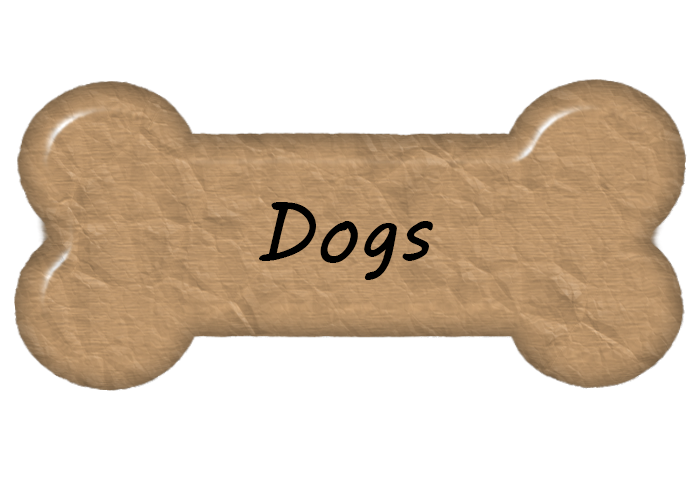
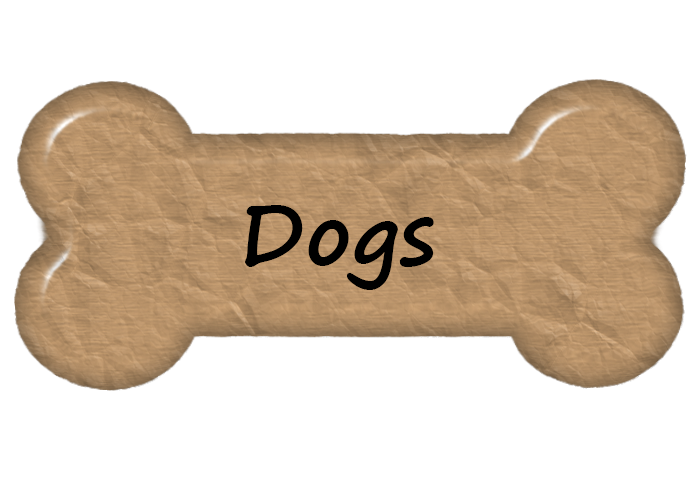
changed fonts

Changed region(s): [[0.33, 0.39, 0.63, 0.6]]

diff --git a/src/App.scss b/src/App.scss
@@ -300,9 +300,12 @@ $scale-base-1: (1 + $scale / 100%);
   color: black !important;
   height: 10vh;
   font-size: 5vh;
+  
+  line-height: 1.8;
   background-image: url('./titlebackground.png');
   background-size: 80% 160%;
   background-position: center;
+  font-family: 'Amatic SC', cursive;
 }
 .hometitle:hover {
   -webkit-transform: translate(0,-10px);
@@ -595,8 +598,8 @@ $scale-base-1: (1 + $scale / 100%);
   background-image: url('./paperheader.jpg');
   background-size: 100%; 
   background-repeat: no-repeat;
-  height: 22vh;
-  margin-bottom: -10vh;
+  height: 25vh;
+  margin-bottom: -7vh;
   position: absolute;
   width: 105vw;
   z-index: 50;

diff --git a/public/index.html b/public/index.html
@@ -9,6 +9,7 @@
       name="description"
       content="Wonderful Doodles from wonderful People "
     />
+    <link href="https://fonts.googleapis.com/css2?family=Amatic+SC:wght@700&display=swap" rel="stylesheet">
     <script src="https://unpkg.com/react/umd/react.production.min.js" crossorigin></script>
     <script
     src="https://unpkg.com/react-dom/umd/react-dom.production.min.js"
